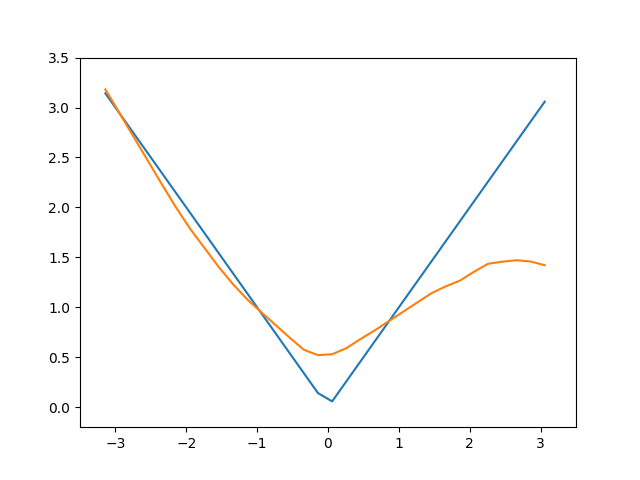
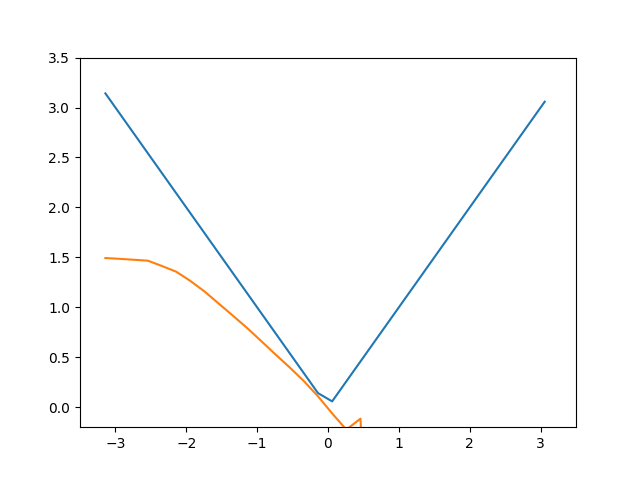
update

diff --git a/base.py b/base.py
@@ -135,15 +135,21 @@ class NN():
 		# D[0] = (A[-1]-Y) * A[-1]*(1-A[-1])
 		D[0] = (A[-1]-Y)
 		# D[0] = 0.5 * (A[-1]-Y)**2 / np.prod(A[-1].shape) * A[-1]*(1-A[-1])
-
+		np.seterr(all='raise')
 		for i in range(len(self.W)):
 			if (self.func=='sigmoid'):
 				D[i+1] = np.multiply(np.transpose(np.dot(self.W[-i-1], np.transpose(D[i]))), np.multiply(A[-2-i],(1-A[-2-i])))
 			elif (self.func=='relu'):
-				D[i+1] = np.multiply(np.transpose(np.dot(self.W[-i-1], np.transpose(D[i]))), (np.sign(A[-2-i])+1)/2)
+				# print([1 if element>0 else 0 for element in A[-2-i][0]])
+				# try:
+				print(np.transpose(np.dot(self.W[-i-1], np.transpose(D[i]))))
+				D[i+1] = np.multiply(np.transpose(np.dot(self.W[-i-1], np.transpose(D[i]))), np.array([1 if element>0 else 0 for element in A[-2-i][0]]))
+				# except:
+				# 	print("Error!")
+				# 	print(np.transpose(np.dot(self.W[-i-1], np.transpose(D[i]))))
 			elif (self.func=='relu2'):
 				D[i+1] = np.transpose(np.dot(self.W[-i-1], np.transpose(D[i])))
 			elif (self.func=='lrelu'):
-				D[i+1] = np.multiply(np.transpose(np.dot(self.W[-i-1], np.transpose(D[i]))) , [1 if element>=0 else 0.01 for element in A[-2-i][0]])
-			self.W[-1-i] = self.W[-1-i] - n * np.dot(np.transpose(A[-2-i])/np.prod(A[-2-i].shape), D[i])
-			self.B[-1-i] = self.B[-1-i] - n * D[i]
+				D[i+1] = np.multiply(np.transpose(np.dot(self.W[-i-1], np.transpose(D[i]))), [1 if element>0 else 0.001 for element in A[-2-i][0]])
+			self.W[-1-i] = self.W[-1-i] - n * np.dot(np.transpose(A[-2-i])/np.prod(A[-2-i].shape), D[i+1])
+			self.B[-1-i] = self.B[-1-i] - n * D[i+1]

diff --git a/test_NN.py b/test_NN.py
@@ -39,14 +39,14 @@ Test case for function approximator
 '''
 DO = True
 if(DO==True):
-	sinNet = base.NN(1,1,[128,128], func='lrelu')
+	sinNet = base.NN(1,1,[128,128], func='relu')
 
 	X = np.arange(-math.pi,math.pi, 0.2)
 	# Y = np.sin(X)
 	Y = abs(X)
 
-	num_iter = 500
-	num_epoch = 3
+	num_iter = 200
+	num_epoch = 1
 	sample_x = np.zeros(num_iter)
 	sample_y = np.zeros(num_iter)
 	
@@ -78,6 +78,6 @@ if(DO==True):
 			f.canvas.draw()
 			f.savefig(str(i)+" iterations.png")
 
-			print(sinNet.W)
+			# print(sinNet.W)
 		time.sleep(0.01)
 	# f.savefig(str(num_iter)+" iterations.png")
